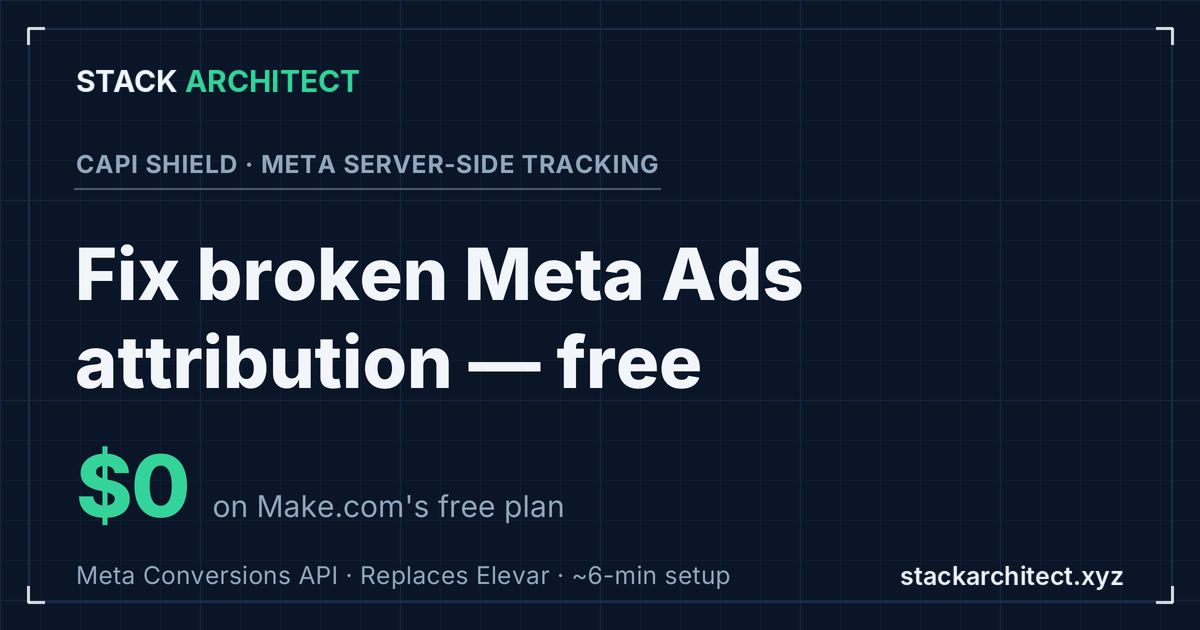
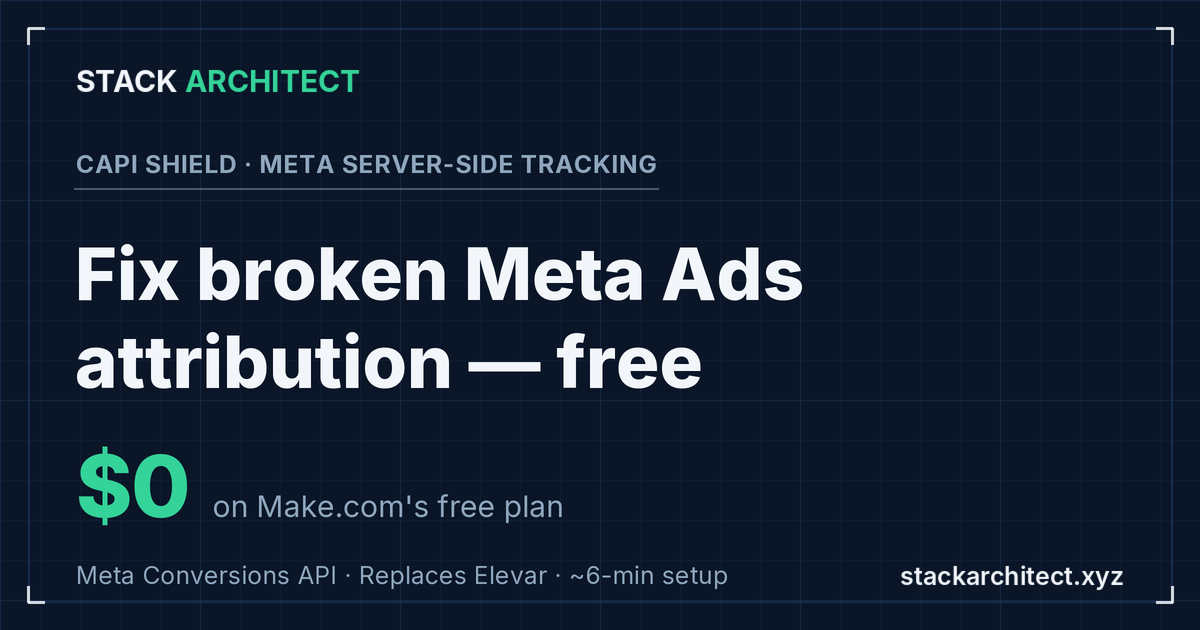
Stop a retracted figure living on in an OG card, and guard it
og-tiktok-events-api.png carried "Recover 20-40% of lost TikTok
conversions" from 14 Jul until today. That figure was retracted on
4 Sep 2026 and /how-we-test/#the-20-40-figure says the site does not
publish it. The card also showed a "$39-$299/mo" struck range that
appears on no page. Both were logged as `concerns` in the manifest on
19 Sep and both shipped on every social share for another two weeks.

Why it survived being found: a `concern` is a note, and nothing failed
on it. claims-guard already forbids a quantified loss or recovery
percentage, but its walker reads source files and a PNG is not one.

Three changes:

1. The card is brought under scripts/og/make_page_og.py and re-rendered.
   It now states the mechanism — server-side CompletePayment, past ITP
   and ad blockers — instead of a share. Its hand transcription and both
   `concerns` are replaced by a generator entry and a sha256.

2. tests/og-images.test.js runs the SAME
   thirdParty.attributionLossFigure.forbid patterns from claims.json
   over every image's manifest text, rather than restating them, so the
   claim and the images cannot drift apart. Each card is read twice:
   line by line as claims-guard reads it, and flattened to one string,
   because a card wraps mid-sentence where prose would not. On the card
   as it shipped the line-by-line reading trips one rule and the
   flattened reading trips three. Both readings are pinned by tests, and
[…]

diff --git a/tests/og-images.test.js b/tests/og-images.test.js
@@ -100,3 +100,88 @@ test('the rule catches the kit card as it shipped until 19 Sep 2026', () => {
   const shipped = ['THE COMPLETE KIT', 'Every scenario pre-built.', 'Live in 10 minutes.', '$29 one-time'].join('\n');
   assert.equal(retiredNearAnchor(shipped, { retired: kit.retired, ...kit.near }).length, 1);
 });
+
+/**
+ * The retracted 20-40% figure, applied to image text.
+ *
+ * claims-guard.mjs already fails the build on a quantified conversion-loss or
+ * recovery percentage, but its walker reads source files and a PNG is not one.
+ * og-tiktok-events-api.png carried "Recover 20-40% of lost TikTok conversions"
+ * from 14 Jul until 3 Oct 2026 — logged as a `concern` in the manifest on
+ * 19 Sep and shipped on every social share for another two weeks, because the
+ * concern was a note and nothing failed on it.
+ *
+ * The patterns are NOT restated here. They are read from the same claims.json
+ * entry claims-guard uses, so a change to the claim reaches images on the next
+ * run instead of drifting from them — which is the failure this whole file
+ * exists to catch.
+ *
+ * Both readings of a card's text are checked, because a card is not prose.
+ *
+ *  - joined by "\n": matches claims-guard exactly, `unless` scoped to the line
+ *    the match sits on.
+ *  - joined by " ": the card as a reader sees it. The patterns step over
+ *    `[^\n<]`, so they stop at a line break wherever a run of literal
+ *    whitespace does not bridge it — and a card wraps where a sentence would
+ *    not. On the TikTok card as it shipped, the line-by-line reading trips one
+ *    rule and the flattened reading trips three. Here `unless` is tested
+ *    against the whole string, since a flattened card has no lines to scope to.
+ *
+ * Checked against the full manifest when this was written: the flattened pass
+ * adds no hits of its own today, so it is a floor, not a new constraint.
+ */
+function forbiddenIn(text, rules) {
+  const lines = text.split('\n');
+  const flat = lines.join(' ');
+  const hits = new Set();
+  for (const f of rules) {
+    const excepts = (f.unless || []).map((u) => new RegExp(u, 'i'));
+    const note = (m) => hits.add(m[0].replace(/\s+/g, ' ').trim().slice(0, 60));
+
+    for (const m of text.matchAll(new RegExp(f.pattern, 'gi'))) {
+      const line = lines[text.slice(0, m.index).split('\n').length - 1] || '';
+      if (!excepts.some((u) => u.test(line))) note(m);
+    }
+    if (excepts.some((u) => u.test(flat))) continue;
+    for (const m of flat.matchAll(new RegExp(f.pattern, 'gi'))) note(m);
+  }
+  return [...hits];
+}
+
+test('no image states a conversion-loss percentage the site retracted', () => {
+  const rules = claims.thirdParty.attributionLossFigure.forbid;
+  for (const [p, e] of Object.entries(images)) {
+    assert.deepEqual(
+      forbiddenIn(e.text.join('\n'), rules), [],
+      `${p} states a loss/recovery percentage retracted on 4 Sep 2026. ` +
+      'An image is fixed by its generator, never by editing the manifest.',
+    );
+  }
+});
+
+test('the rule catches the TikTok card as it shipped until 3 Oct 2026', () => {
+  const rules = claims.thirdParty.attributionLossFigure.forbid;
+  const shipped = [
+    'TIKTOK EVENTS API FOR SHOPIFY',
+    'Recover 20–40% of lost',
+    'TikTok conversions — free',
+  ].join('\n');
+  assert.ok(forbiddenIn(shipped, rules).length > 0, 'the rule no longer catches the card it was written for');
+});
+
+// Pins the flattened pass, which otherwise could be deleted with this file
+// still green. On the card as it actually shipped, reading it line by line
+// trips one rule; reading it as a sentence trips three. The single rule is
+// the whole margin, and it is not one this file controls — narrowing it in
+// claims.json would silently stop catching this card.
+test('flattening a card widens which rules see a wrapped claim', () => {
+  const rules = claims.thirdParty.attributionLossFigure.forbid;
+  const shipped = [
+    'TIKTOK EVENTS API FOR SHOPIFY',
+    'Recover 20–40% of lost',
+    'TikTok conversions — free',
+  ].join('\n');
+  const firing = (t) => rules.filter((f) => new RegExp(f.pattern, 'gi').test(t)).length;
+  assert.equal(firing(shipped), 1, 'line-scoped reading of the shipped card');
+  assert.equal(firing(shipped.split('\n').join(' ')), 3, 'flattened reading of the same card');
+});

diff --git a/scripts/og/make_page_og.py b/scripts/og/make_page_og.py
@@ -82,6 +82,22 @@ def cards():
             'footer': '4 Make.com blueprints · 2 Sheets templates · 30-day guarantee',
             'depicts': {'KIT_PRICE': kit},
         },
+        # Brought under the generator 3 Oct 2026. The 14 Jul bitmap read
+        # "Recover 20-40% of lost TikTok conversions" — the figure retracted on
+        # 4 Sep and named in claims.json as attributionLossFigure — plus a
+        # "$39-$299/mo" struck range that appears on no page. Both were logged
+        # as `concerns` in the manifest in Sep and neither could be fixed,
+        # because nothing could redraw the bitmap. The replacement states the
+        # mechanism instead of a share, which is what /how-we-test/ says this
+        # site publishes.
+        'public/og/og-tiktok-events-api.png': {
+            'usedBy': ['/tiktok-events-api-shopify/'],
+            'eyebrow': 'TIKTOK EVENTS API · SHOPIFY',
+            'headline': ['Send TikTok purchases', 'server-side — free'],
+            'zero': '$0', 'aside': "on Make.com's free plan",
+            'footer': 'TikTok Events API · Past ITP and ad blockers · No app install',
+            'depicts': {},
+        },
     }
 
 

diff --git a/CLAUDE.md b/CLAUDE.md
@@ -451,8 +451,9 @@ anyone seeing it.
     `retired-near-anchor` rule claims-guard uses);
   - any image states a withdrawn tracking claim ("no gclid needed", or
     CAPI Shield with Meta + Google).
-- **`scripts/og/make_page_og.py` renders `og-capi-shield.png` and
-  `og-complete-kit.png`** onto `scripts/og/card-template.png` and rewrites
+- **`scripts/og/make_page_og.py` renders `og-capi-shield.png`,
+  `og-complete-kit.png` and `og-tiktok-events-api.png`** onto
+  `scripts/og/card-template.png` and rewrites
   their manifest entries. Setup:
   `python3 -m venv .venv-og && .venv-og/bin/pip install -r scripts/og/requirements.txt`.
   Never edit a generated PNG or its entry by hand; change `cards()` and
@@ -465,10 +466,33 @@ anyone seeing it.
   "no gclid needed" until 19 Sep 2026 and nobody looked). PNG, JPG and WebP
   text is invisible to every check except this manifest.
 
+**Fixed 3 Oct 2026: `og-tiktok-events-api.png`.** It carried "Recover 20–40% of
+lost TikTok conversions" — the figure `/how-we-test/#the-20-40-figure` says the
+site does not publish — plus a "$39–$299/mo" struck range that appears on no
+page. It is now generated by `make_page_og.py` and states the mechanism instead
+of a share. Both of its `concerns` are gone with it.
+
+The reason it survived two weeks after being logged: a `concern` in the
+manifest is a note, and nothing failed on it. `claims-guard` already forbids a
+quantified loss or recovery percentage, but its walker reads source files and a
+PNG is not one. `tests/og-images.test.js` now runs the **same**
+`thirdParty.attributionLossFigure.forbid` patterns from `claims.json` over
+every image's manifest text, so the claim and the images cannot drift apart.
+It reads each card twice — line by line, as `claims-guard` does, and flattened
+to one string, because a card wraps mid-sentence where prose would not. On the
+card as it shipped, the line-by-line reading trips one rule and the flattened
+reading trips three; both readings are pinned by tests.
+
+Re-rendering on Pillow 12 also rewrote `og-capi-shield.png` and
+`og-complete-kit.png`. Their text, layout and colours are unchanged — the
+deltas are glyph-edge antialiasing, 0.49 and 0.65 mean levels of 255 after a
+3px blur, with no shift in position. Expect this whenever the generator runs on
+a newer Pillow: commit the new bytes rather than reverting them, because the
+invariant this machinery rests on is that the committed PNG is what the
+generator writes.
+
 **Known problems in image text, recorded 19 Sep 2026 and not fixed.** Each one
 is also listed under `concerns` in the manifest.
-- `og-tiktok-events-api.png`: "Recover 20–40% of lost TikTok conversions", the
-  figure `/how-we-test/#the-20-40-figure` says the site does not publish.
 - `og-home.png`: "$514–$1,895/mo" and "Save $6,168–$22,740 / year", against
   "$321–$1,887/month" in the homepage schema.
 - `og-how-we-test.png`: "Every number on this site has a source and a date",
